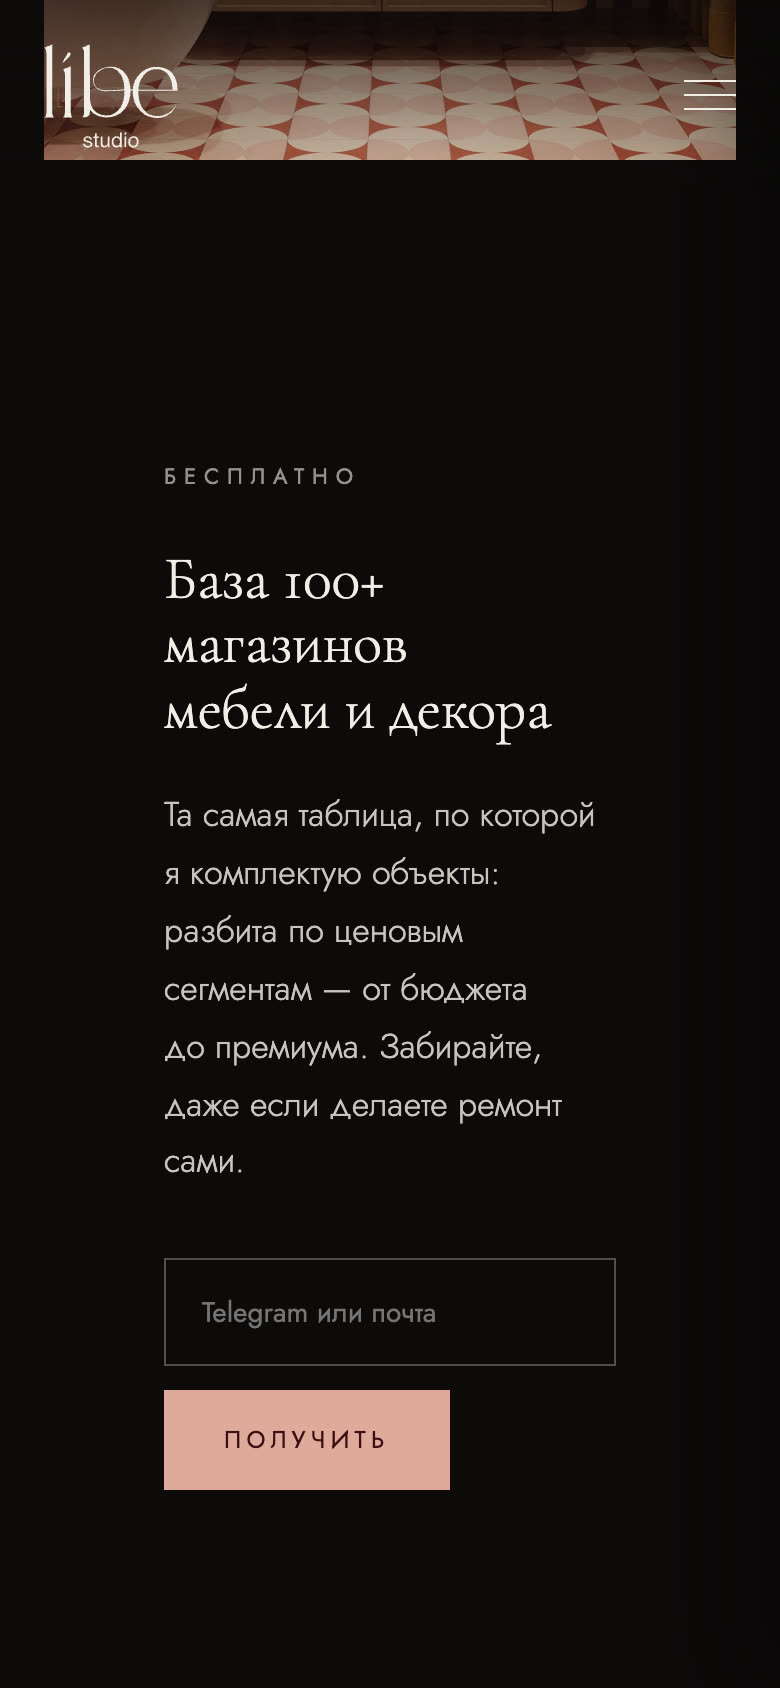
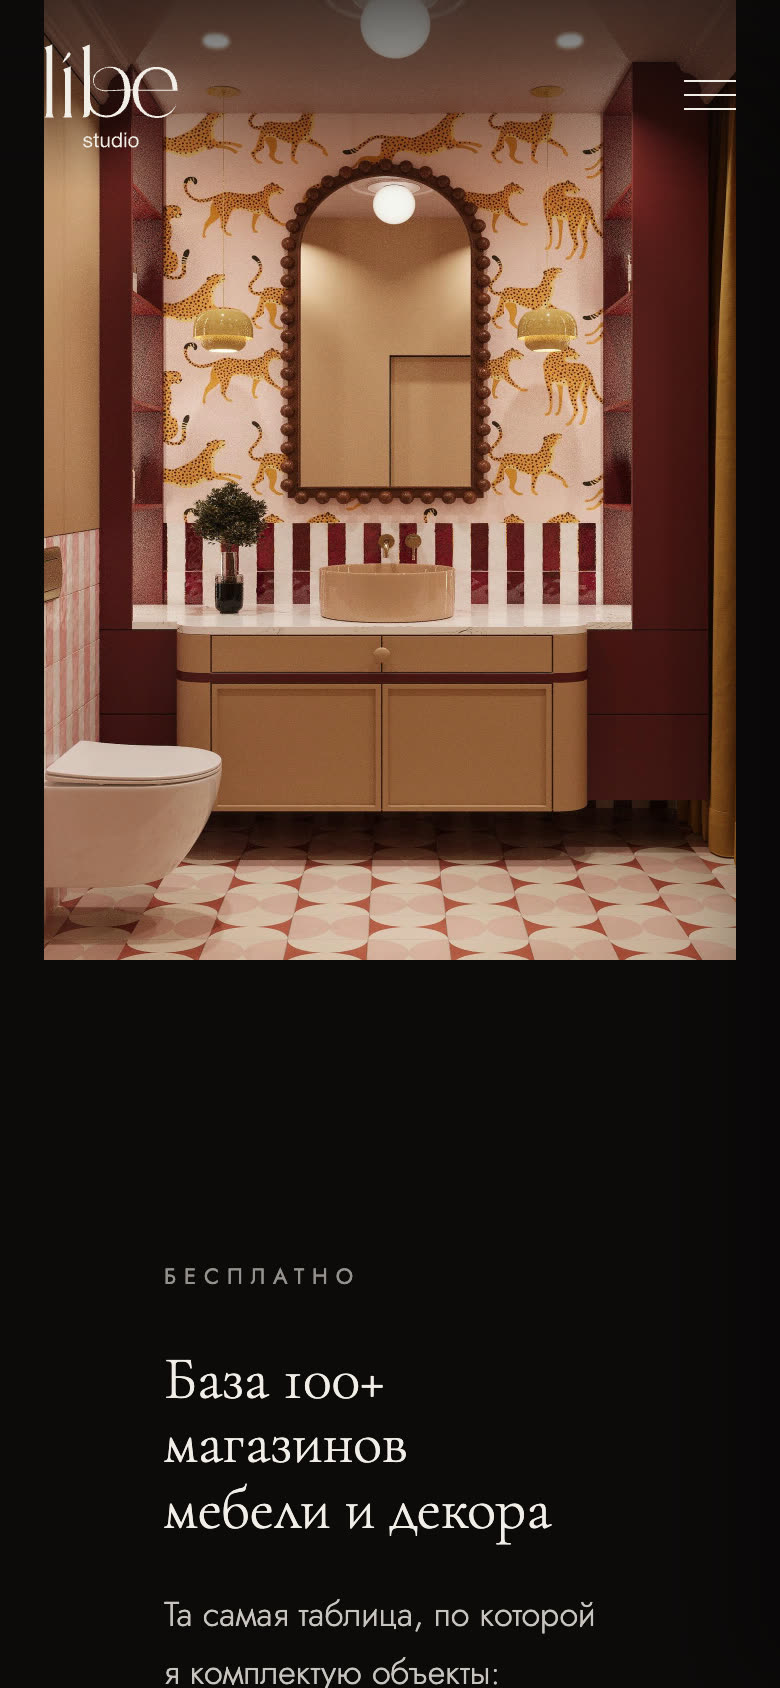
Меню: «Яндекс Директ» ведёт на страницу /direct/; sitemap; свежая версия кейса Liberman

diff --git a/turnkey/index.html b/turnkey/index.html
@@ -279,7 +279,7 @@
 
 <header class="top">
   <a href="../">TINA DIGITAL</a>
-  <nav><a href="../">Проекты</a><a class="on" href="./">Сайты под ключ</a><a href="../seo-geo/">SEO + GEO</a><a href="https://t.me/belovachristina" target="_blank" rel="noopener">Яндекс Директ</a><button class="m" type="button" data-contact>Контакты</button></nav>
+  <nav><a href="../">Проекты</a><a class="on" href="./">Сайты под ключ</a><a href="../seo-geo/">SEO + GEO</a><a href="../direct/">Яндекс Директ</a><button class="m" type="button" data-contact>Контакты</button></nav>
 </header>
 
 <main>
@@ -532,7 +532,7 @@
     </div>
     <div class="after">
       <div class="rv"><small class="mono">01</small><b>SEO + GEO</b><p>Продвижение в&nbsp;классическом поиске и&nbsp;AI Search. <a href="../seo-geo/">Подробнее →</a></p></div>
-      <div class="rv"><small class="mono">02</small><b>Яндекс Директ</b><p>Платный поисковый трафик на&nbsp;подготовленные посадочные.</p></div>
+      <div class="rv"><small class="mono">02</small><b>Яндекс Директ</b><p>Платный поисковый трафик на&nbsp;подготовленные посадочные. <a href="../direct/">Подробнее →</a></p></div>
       <div class="rv"><small class="mono">03</small><b>Analytics</b><p>Цели, события, воронка — заложены в&nbsp;разработку.</p></div>
     </div>
     <p class="rv" style="margin-top:34px;font-size:13px;line-height:1.5;color:var(--t-faint);max-width:620px">Отдельные направления. Не&nbsp;входят в&nbsp;стоимость базовой разработки — база под&nbsp;них закладывается в&nbsp;структуру сайта.</p>

diff --git a/case-liberman.html b/case-liberman.html
@@ -84,7 +84,7 @@
 
   .phone{ width:clamp(200px,19vw,300px); aspect-ratio:390/844; border-radius:calc(clamp(200px,19vw,300px) * .15); background:#0a0a0b; padding:clamp(7px,.7vw,10px);
     box-shadow:0 50px 100px -30px rgba(0,0,0,.6), inset 0 0 0 1.5px #2a2a2e; position:relative; flex:none; }
-  .phone .scr{ width:100%; height:100%; border-radius:calc(clamp(200px,19vw,300px) * .125); overflow:hidden; background:#000; }
+  .phone .scr{ width:100%; height:100%; border-radius:calc(clamp(200px,19vw,300px) * .125); overflow:hidden; background:#000; padding-top:12%; } /* статус-бар: шапка сайта не уходит под «чёлку» */
   .phone .scr img, .phone .scr video{ width:100%; height:100%; object-fit:cover; object-position:top; }
   .phone::before{ content:''; position:absolute; top:clamp(14px,1.4vw,20px); left:50%; transform:translateX(-50%); width:30%; height:clamp(18px,1.9vw,26px); background:#000; border-radius:20px; z-index:2; }
 

diff --git a/seo-geo/index.html b/seo-geo/index.html
@@ -304,7 +304,7 @@
 
 <header class="top">
   <a href="../">TINA DIGITAL</a>
-  <nav><a href="../">Проекты</a><a href="../turnkey/">Сайты под ключ</a><a class="on" href="./">SEO + GEO</a><a href="https://t.me/belovachristina" target="_blank" rel="noopener">Яндекс Директ</a><a class="m" href="#check">Проверить сайт</a></nav>
+  <nav><a href="../">Проекты</a><a href="../turnkey/">Сайты под ключ</a><a class="on" href="./">SEO + GEO</a><a href="../direct/">Яндекс Директ</a><a class="m" href="#check">Проверить сайт</a></nav>
 </header>
 
 <main>

diff --git a/index.html b/index.html
@@ -522,7 +522,7 @@
       <a href="#cxHero">Проекты</a>
       <a href="turnkey/">Сайты под ключ</a>
       <a href="seo-geo/">SEO + GEO</a>
-      <a href="https://t.me/belovachristina" target="_blank" rel="noopener">Яндекс Директ</a>
+      <a href="direct/">Яндекс Директ</a>
       <a href="#contact" data-open-info>Контакты</a>
     </nav>
   </header>
